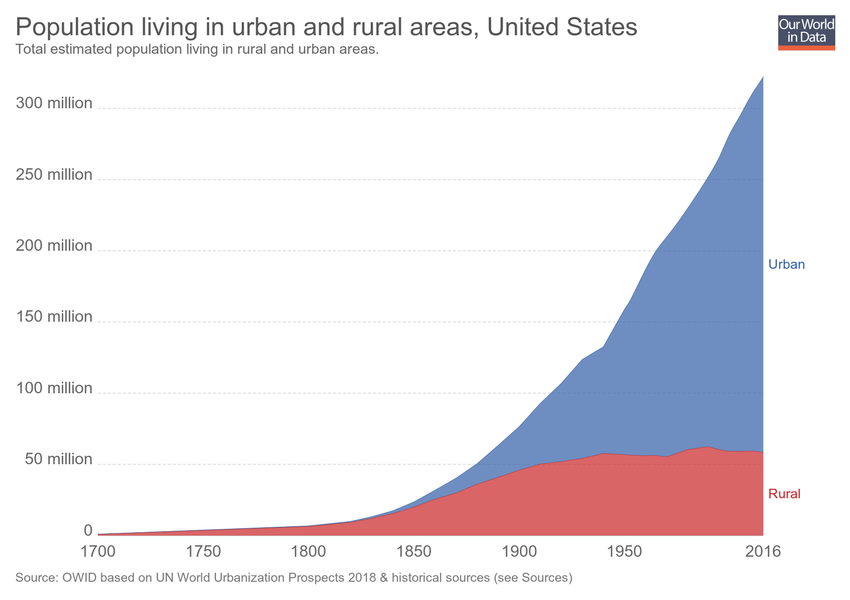
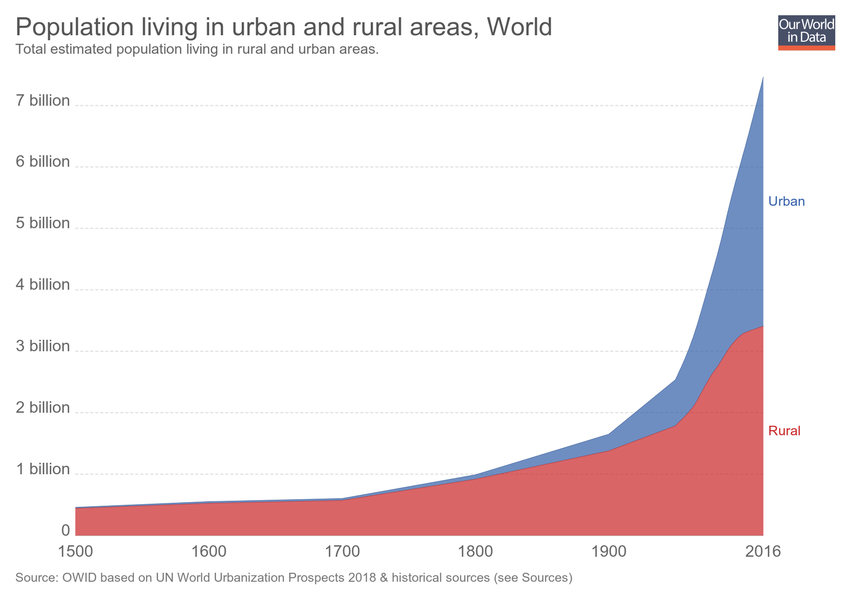
Updating chart urban-and-rural-population-stacked

diff --git a/grapher/urban-and-rural-population-stacked.html b/grapher/urban-and-rural-population-stacked.html
@@ -1,4 +1,4 @@
-<!doctype html><html><head><meta name="viewport" content="width=device-width, initial-scale=1" /><title>Population living in urban and rural areas - Our World in Data</title><meta name="description" content="Total estimated population living in rural and urban areas." /><link rel="canonical" href="https://ourworldindata.org/grapher/urban-and-rural-population-stacked" /><meta property="fb:app_id" content="1149943818390250" /><meta property="og:url" content="https://ourworldindata.org/grapher/urban-and-rural-population-stacked" /><meta property="og:title" content="Population living in urban and rural areas" /><meta property="og:description" content="Total estimated population living in rural and urban areas." /><meta property="og:image" content="https://ourworldindata.org/grapher/exports/urban-and-rural-population-stacked.png?v=1" /><meta property="og:image:width" content="850" /><meta property="og:image:height" content="600" /><meta property="og:site_name" content="Our World in Data" /><meta name="twitter:card" content="summary_large_image" /><meta name="twitter:site" content="@OurWorldInData" /><meta name="twitter:creator" content="@OurWorldInData" /><meta name="twitter:title" content="Population living in urban and rural areas" /><meta name="twitter:description" content="Total estimated population living in rural and urban areas." /><meta name="twitter:image" content="https://ourworldindata.org/grapher/exports/urban-and-rural-population-stacked.png?v=1" /><style>
+<!doctype html><html><head><meta name="viewport" content="width=device-width, initial-scale=1" /><title>Population living in urban and rural areas - Our World in Data</title><meta name="description" content="Total estimated population living in rural and urban areas." /><link rel="canonical" href="https://ourworldindata.org/grapher/urban-and-rural-population-stacked" /><meta property="fb:app_id" content="1149943818390250" /><meta property="og:url" content="https://ourworldindata.org/grapher/urban-and-rural-population-stacked" /><meta property="og:title" content="Population living in urban and rural areas" /><meta property="og:description" content="Total estimated population living in rural and urban areas." /><meta property="og:image" content="https://ourworldindata.org/grapher/exports/urban-and-rural-population-stacked.png?v=2" /><meta property="og:image:width" content="850" /><meta property="og:image:height" content="600" /><meta property="og:site_name" content="Our World in Data" /><meta name="twitter:card" content="summary_large_image" /><meta name="twitter:site" content="@OurWorldInData" /><meta name="twitter:creator" content="@OurWorldInData" /><meta name="twitter:title" content="Population living in urban and rural areas" /><meta name="twitter:description" content="Total estimated population living in rural and urban areas." /><meta name="twitter:image" content="https://ourworldindata.org/grapher/exports/urban-and-rural-population-stacked.png?v=2" /><style>
         html, body {
             height: 100%;
             margin: 0;
@@ -20,8 +20,8 @@
         }
     </style><noscript><style>
                     figure { display: none !important; }
-                </style></noscript><link rel="stylesheet" href="https://ourworldindata.org/grapher/assets/commons.bundle.64434b0ab00f96edaf37.css" /><link rel="preload" href="/grapher/data/variables/97871+97872.json?v=1" as="fetch" crossorigin /></head><body class="singleChart"><figure data-grapher-src="/grapher/urban-and-rural-population-stacked"></figure><noscript id="fallback"><img src="/grapher/exports/urban-and-rural-population-stacked.svg" /><p>Interactive visualization requires JavaScript</p></noscript><script src="https://cdn.polyfill.io/v2/polyfill.min.js?features=es6,fetch"></script><script src="https://ourworldindata.org/grapher/assets/commons.bundle.64434b0ab00f96edaf37.js"></script><script src="https://ourworldindata.org/grapher/assets/charts.bundle.64434b0ab00f96edaf37.js"></script><script>
-        var jsonConfig = {"map":{"projection":"World","colorSchemeLabels":[],"colorSchemeValues":[],"customNumericColors":[],"customCategoryColors":{},"customCategoryLabels":{},"customHiddenCategories":{}},"tab":"chart","slug":"urban-and-rural-population-stacked","type":"StackedArea","title":"Population living in urban and rural areas","xAxis":{"scaleType":"linear"},"yAxis":{"min":0,"scaleType":"linear"},"version":1,"subtitle":"Total estimated population living in rural and urban areas.","hasMapTab":false,"stackMode":"absolute","dimensions":[{"display":{"name":"Urban"},"property":"y","variableId":97871},{"display":{"name":"Rural"},"property":"y","variableId":97872}],"sourceDesc":"OWID based on UN World Urbanization Prospects 2018 & historical sources (see Sources)","hasChartTab":true,"isPublished":true,"selectedData":[{"color":"#3360a9","index":0,"entityId":13},{"color":"#ca2628","index":1,"entityId":13}],"addCountryMode":"change-country","id":2986};
+                </style></noscript><link rel="stylesheet" href="https://ourworldindata.org/grapher/assets/commons.bundle.64434b0ab00f96edaf37.css" /><link rel="preload" href="/grapher/data/variables/97871+97872.json?v=2" as="fetch" crossorigin /></head><body class="singleChart"><figure data-grapher-src="/grapher/urban-and-rural-population-stacked"></figure><noscript id="fallback"><img src="/grapher/exports/urban-and-rural-population-stacked.svg" /><p>Interactive visualization requires JavaScript</p></noscript><script src="https://cdn.polyfill.io/v2/polyfill.min.js?features=es6,fetch"></script><script src="https://ourworldindata.org/grapher/assets/commons.bundle.64434b0ab00f96edaf37.js"></script><script src="https://ourworldindata.org/grapher/assets/charts.bundle.64434b0ab00f96edaf37.js"></script><script>
+        var jsonConfig = {"id":2986,"map":{"projection":"World","colorSchemeLabels":[],"colorSchemeValues":[],"customNumericColors":[],"customCategoryColors":{},"customCategoryLabels":{},"customHiddenCategories":{}},"tab":"chart","slug":"urban-and-rural-population-stacked","type":"StackedArea","title":"Population living in urban and rural areas","xAxis":{"scaleType":"linear"},"yAxis":{"min":0,"scaleType":"linear"},"version":2,"subtitle":"Total estimated population living in rural and urban areas.","hasMapTab":false,"stackMode":"absolute","dimensions":[{"display":{"name":"Urban"},"property":"y","variableId":97871},{"display":{"name":"Rural"},"property":"y","variableId":97872}],"sourceDesc":"OWID based on UN World Urbanization Prospects 2018 & historical sources (see Sources)","hasChartTab":true,"isPublished":true,"selectedData":[{"color":"#3360a9","index":0,"entityId":355},{"color":"#ca2628","index":1,"entityId":355}],"addCountryMode":"change-country"};
         var figure = document.getElementsByTagName("figure")[0];
         try {
             window.App = {};
